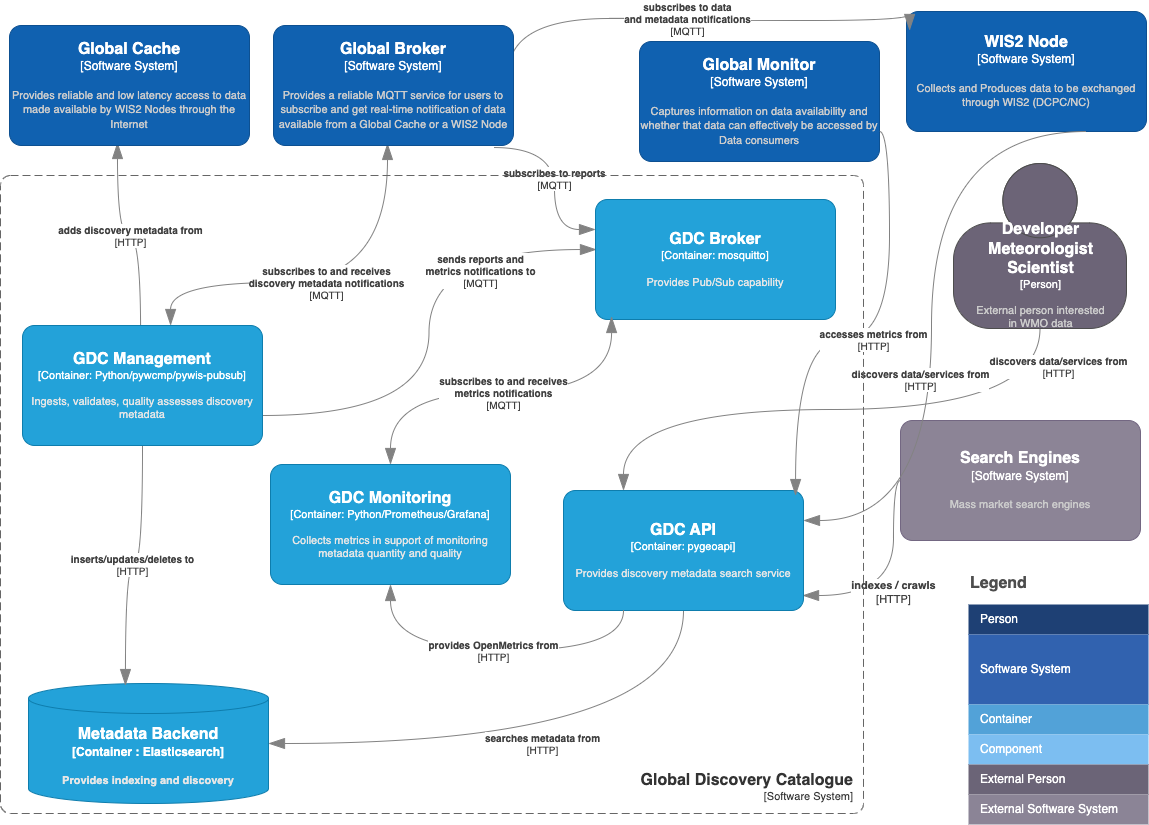
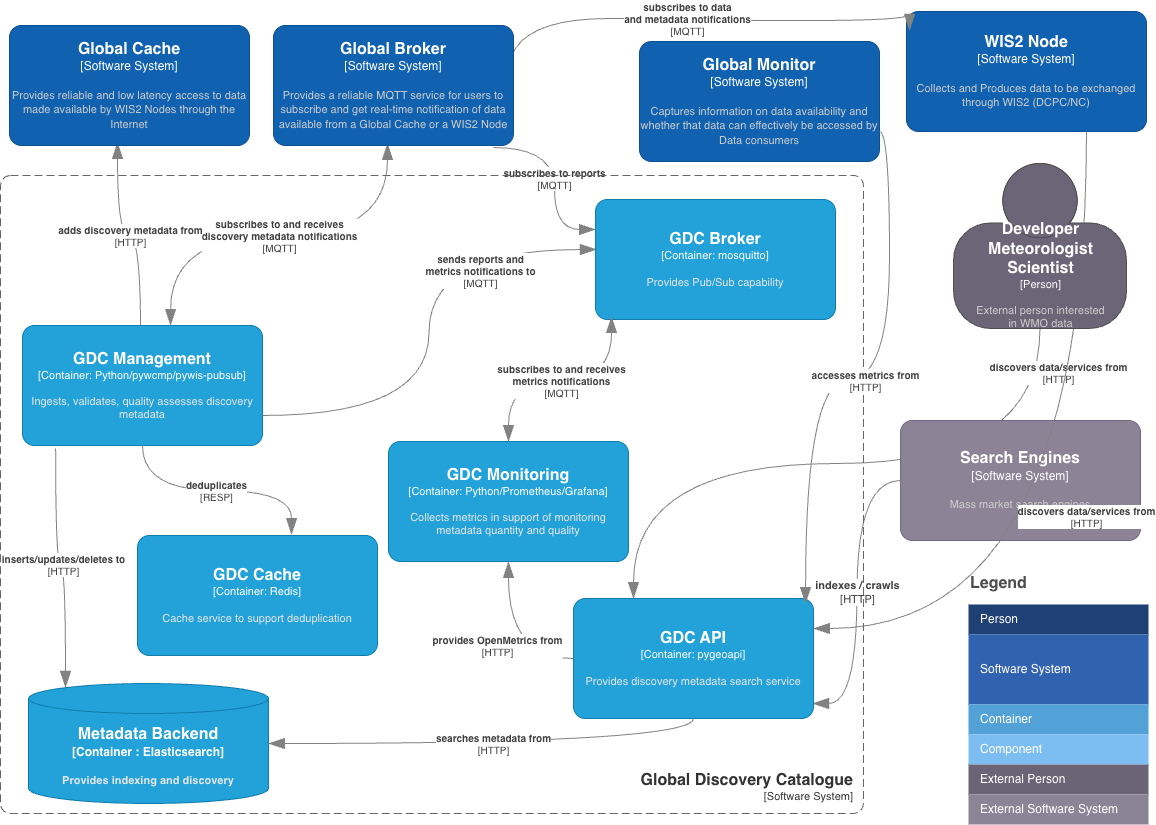
add message deduplication

diff --git a/wis2-gdc-management/wis2_gdc/hook.py b/wis2-gdc-management/wis2_gdc/hook.py
@@ -22,7 +22,9 @@
 import logging
 
 from pywis_pubsub.hook import Hook
+import redis
 
+from wis2_gdc.env import CACHE_URL, CACHE_RETENTION_SECONDS
 from wis2_gdc.registrar import Registrar
 
 LOGGER = logging.getLogger(__name__)
@@ -31,6 +33,22 @@ LOGGER = logging.getLogger(__name__)
 class DiscoveryMetadataHook(Hook):
     def execute(self, topic: str, msg_dict: dict) -> None:
         wcmp2_dict = None
+        self.cache = redis.Redis().from_url(CACHE_URL)
+
+        LOGGER.debug('Checking for duplicate message')
+        if self.cache.get(msg_dict['id']) is not None:
+            msg = f"Duplicate message {msg_dict['id']}; discarding"
+            LOGGER.info(msg)
+            return
+        else:
+            msg = f"New message {msg_dict['id']}; adding"
+            LOGGER.info(msg)
+            self.cache.set(
+                msg_dict['id'],
+                msg_dict['properties']['data_id'],
+                nx=True,
+                ex=CACHE_RETENTION_SECONDS
+            )
 
         LOGGER.debug('Discovery metadata hook execution begin')
         r = Registrar()

diff --git a/wis2-gdc-management/wis2_gdc/env.py b/wis2-gdc-management/wis2_gdc/env.py
@@ -49,6 +49,8 @@ BACKEND_TYPE = os.environ.get('WIS2_GDC_BACKEND_TYPE')
 BACKEND_CONNECTION = os.environ.get('WIS2_GDC_BACKEND_CONNECTION')
 BROKER_URL = os.environ.get('WIS2_GDC_BROKER_URL')
 CENTRE_ID = os.environ.get('WIS2_GDC_CENTRE_ID')
+CACHE_URL = os.environ.get('WIS2_GDC_CACHE_URL')
+CACHE_RETENTION_SECONDS = int(os.environ.get('WIS2_GDC_CACHE_RETENTION_SECONDS', 3600))  # noqa
 GB = os.environ.get('WIS2_GDC_GB')
 GB_CENTRE_ID = None
 GB_TOPIC = os.environ.get('WIS2_GDC_GB_TOPIC')
@@ -60,7 +62,7 @@ EXPERIMENTAL = str2bool(os.environ.get('WIS2_GDC_EXPERIMENTAL', 'false'))
 GB_LINKS = []
 
 if None in [API_URL, API_URL_DOCKER, BACKEND_TYPE, BACKEND_CONNECTION,
-            BROKER_URL, CENTRE_ID, GB, GB_TOPIC]:
+            BROKER_URL, CACHE_URL, CENTRE_ID, GB, GB_TOPIC]:
     raise EnvironmentError('Environment variables not set!')
 
 for key, value in os.environ.items():

diff --git a/docs/source/architecture.rst b/docs/source/architecture.rst
@@ -33,13 +33,14 @@ As a containerized solution, ``wis2-gdc`` provides functionality via the followi
   * **grafana**: analytics and visualization
 * **wis2-gdc-broker**: MQTT broker
 * **wis2-gdc-backend**: API search engine backend (default Elasticsearch)
+* **wis2-gdc-cache**: message cache (default Redis)
 
 ``wis2-gdc`` is primarily an event-driven system, also providing interactive functionality for managing WIS2 metadata if required.
 
 Workflows
 ^^^^^^^^^
 
-``wis2-gdc`` starts up by connecting to a WIS2 Global Broker (GB), subscribing to notifications for WIS2 metadata (WMO Core Metadata Profile [WCMP2]).  On receipt of WIS2 Notification Messages (WNM) for metadata, ``wis2-gdc`` will ingest, validate and publish a WCMP2 record to its catalogue API.  In addition, WCMP2 update and deletion is supported with the appropriate WNM.
+``wis2-gdc`` starts up by connecting to a WIS2 Global Broker (GB), subscribing to notifications for WIS2 metadata (WMO Core Metadata Profile [WCMP2]).  On receipt of WIS2 Notification Messages (WNM) for metadata, ``wis2-gdc`` will perform message deduplication, validate, ingest and publish a WCMP2 record to its catalogue API.  In addition, WCMP2 update and deletion is supported with the appropriate WNM.
 
 The ``wis2-gdc`` monitoring capability collects and provides metrics on WCMP2 that is scraped by the WIS2 Global Monitor (GM).
 
@@ -47,8 +48,7 @@ The ``wis2-gdc`` monitoring capability collects and provides metrics on WCMP2 th
 
 The ``wis2-gdc`` API provides an OGC API - Records endpoint that is OGC compliant.  The API provides search engine capability for WIS2 metadata, also providing OGC API - Processes functionality for WCMP2 validation and KPI quality assessment.
 
-The ``wis2-gdc-management`` container also provides functionality to restore a WCMP2 metadata archive zipfile from another GDC.  Note that ETS and KPI validations are not performed during a restore workflow.
-
+The ``wis2-gdc-management`` container provides functionality to restore a WCMP2 metadata archive zipfile from another GDC.  Note that ETS and KPI validations are not performed during a restore workflow.
 
 .. _`Twelve-Factor App methodology`: https://12factor.net
 .. _`Docker`: https://www.docker.com

diff --git a/README.md b/README.md
@@ -10,9 +10,11 @@ wis2-gdc is a Reference Implementation of a WIS2 Global Discovery Catalogue.
 
 - connects to a WIS2 Global Broker, subscribed to the following topic:
   - `cache/a/wis2/+/metadata/#`
-- on discovery metadata notifications, run the WCMP2 ETS and KPIs via [pywcmp](https://github.com/wmo-im/pywcmp)
+- on discovery metadata notifications:
+  - check for message duplication
+  - run the WCMP2 ETS and KPIs via [pywcmp](https://github.com/World-Meteorological-Organization/pywcmp)
 - publish ETS and KPI reports to local broker under `monitor/a/wis2/centre-id`
-- publish to a WIS2 GDC (OGC API - Records) using one of the supported transaction backends:
+- publish to a WIS2 GDC ([OGC API - Records](https://docs.ogc.org/is/20-004r1/20-004r1.html)) using one of the supported transaction backends:
   - [OGC API - Features - Part 4: Create, Replace, Update and Delete](https://docs.ogc.org/DRAFTS/20-002.html)
   - Elasticsearch direct (default)
 - collect real-time and offline GDC metrics and make them available as [OpenMetrics](https://openmetrics.io)
@@ -104,6 +106,7 @@ The Docker setup uses Docker and Docker Compose to manage the following services
 - **wis2-gdc-management**: management service to ingest, validate and publish discovery metadata published from a WIS2 Global Broker instance
   - the default Global Broker connection is to NOAA.  This can be modified in `wis2-gdc.env` to point to a different Global Broker
 - **wis2-gdc-backend**: API search engine backend (default Elasticsearch)
+- **wis2-gdc-cache**: message cache (default Redis)
 
 See [`wis2-gdc.env`](wis2-gdc.env) for default environment variable settings.
 

diff --git a/docs/source/configuration.rst b/docs/source/configuration.rst
@@ -26,6 +26,8 @@ Main configuration environment variables
    ``WIS2_GDC_REJECT_ON_FAILING_ETS``,whether the GDC should stop ingest based on on failing record,``true``
    ``WIS2_GDC_RUN_KPI``,whether the GDC should run KPI as part of ingest,``false``
    ``WIS2_GDC_EXPERIMENTAL``,whether the GDC should in experimental mode,``false``
+   ``WIS2_GDC_CACHE_URL``,URL of the GDC cache,``redis://wis2-gdc-cache:6379``
+   ``WIS2_GDC_CACHE_RETENTION_SECONDS``,cache retention policy for notification messages in seconds,``3600``
 
 API configuration environment variables
 ---------------------------------------
@@ -74,7 +76,7 @@ WIS2 Global Broker environment variables are defined as comma-separated values (
 
 An example can be found below:
 
-.. code-block:: csv
+.. code-block:: text
 
    WIS2_GDC_GB_LINK_METEOFRANCE,"fr-meteo-france-global-broker,mqtts://everyone:everyone@globalbroker.meteo.fr:8883,Météo-France, Global Broker Service"
 
